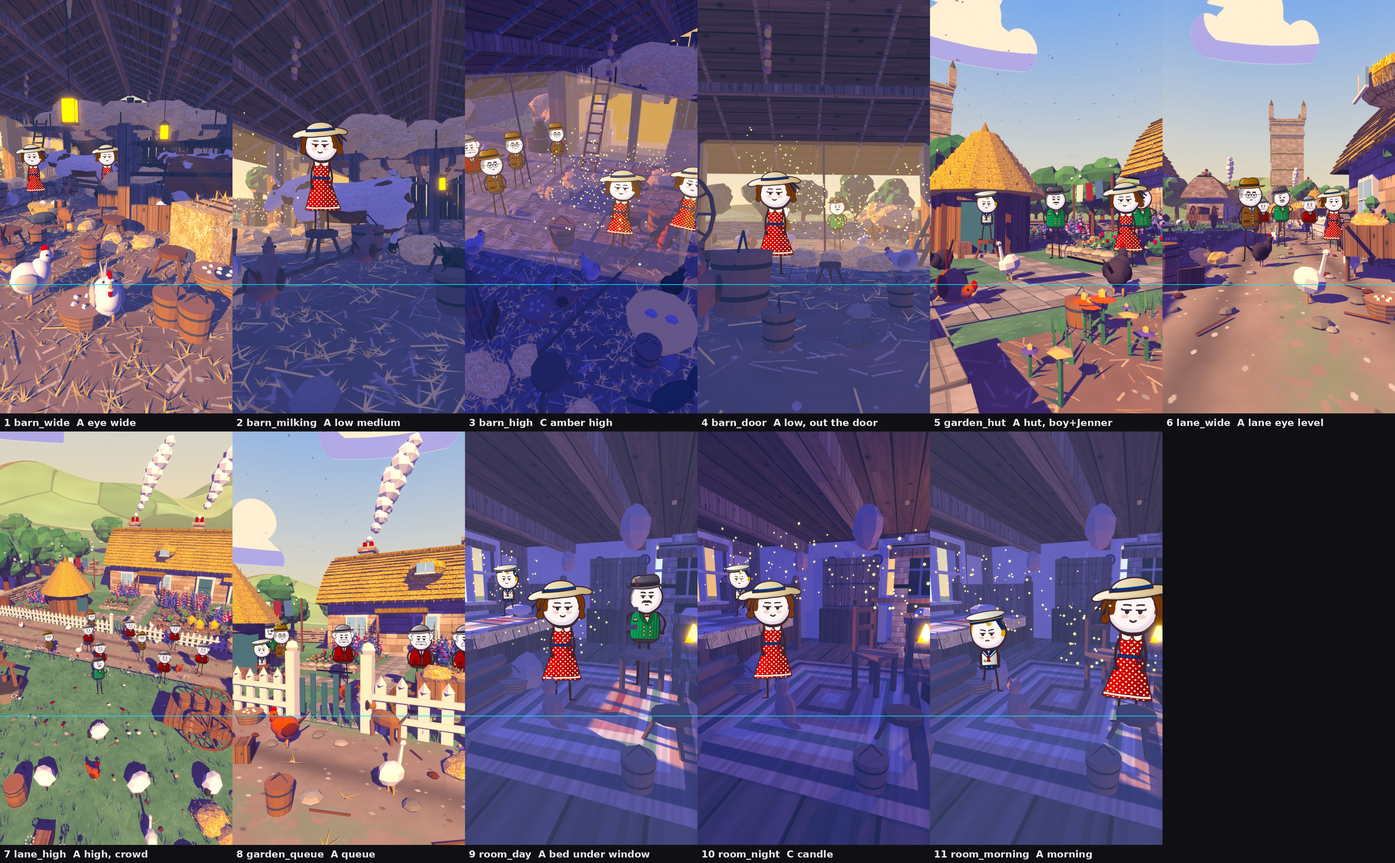
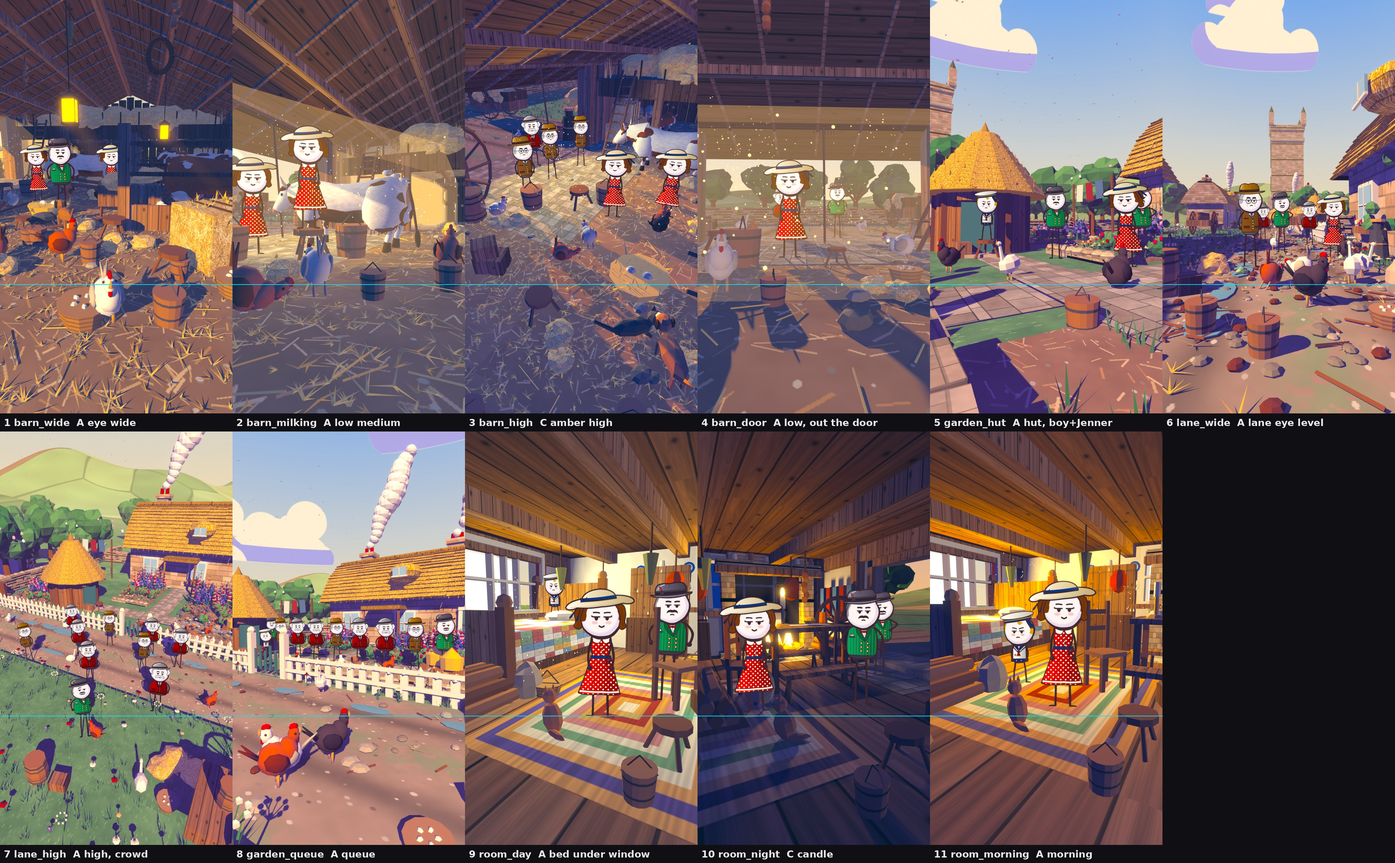
Film 11: set3d11 round 2 (SET gate fixes, 11 finals, contact sheet)
Claude-Session: https://claude.ai/code/session_017iwyCwbG6c8sHBMFGbB4ha

diff --git a/film/v3/set3d11/dairy.py b/film/v3/set3d11/dairy.py
@@ -54,7 +54,7 @@ PRESETS = dict(
     barn_high=dict(loc='barn', light='C', cam='barn_high', sun=(160, 15), look_az=70, P=dict(lift=(0.004, 0.012, 0.030), bounce_z=0.3), fills=[dict(loc=(-9.4, 15.5, 3.0), dir=(1.0, -0.35, -0.3), size=(5.0, 5.0), rgb=(1.0, 0.96, 0.50), energy=1100)]),
     barn_door=dict(loc='barn', light='A', cam='barn_door', sun=(195, 18), look_az=180, P=dict(air=('#f4cf94', 0.12, 14.0, 160.0), bounce_z=0.1)),
     garden_hut=dict(loc='village', light='A', cam='garden_hut', sun=(300, 34), look_az=165, P=dict(shade_mix=0.95, shade=(0.134, 0.104, 0.36), shade_tint=(0.134, 0.102, 0.38), lift=(0.016, 0.010, 0.036))),
-    lane_wide=dict(loc='village', light='A', cam='lane_wide', sun=(300, 40), look_az=182, P=dict(shade_mix=0.95, shade=(0.134, 0.104, 0.36), shade_tint=(0.134, 0.102, 0.38), lift=(0.016, 0.010, 0.036))),
+    lane_wide=dict(loc='village', light='A', cam='lane_wide', sun=(300, 40), look_az=182, P=dict(shade_mix=0.95, shade=(0.134, 0.104, 0.36), shade_tint=(0.130, 0.104, 0.38), lift=(0.012, 0.011, 0.036))),
     lane_high=dict(loc='village', light='A', cam='lane_high', sun=(300, 36), look_az=95, P=dict(shade_mix=0.95, shade=(0.134, 0.104, 0.36), shade_tint=(0.134, 0.102, 0.38), lift=(0.016, 0.010, 0.036))),
     garden_queue=dict(loc='village', light='A', cam='garden_queue', sun=(300, 36), look_az=100, P=dict(shade_mix=0.95, shade=(0.134, 0.104, 0.36), shade_tint=(0.134, 0.102, 0.38), lift=(0.016, 0.010, 0.036))),
     room_day=dict(loc='cottage', light='A', cam='room_day', sun=(140, 38), look_az=90, P=dict(shade=(0.065, 0.072, 0.23), shade_tint=(0.076, 0.062, 0.25), shade_mix=0.66, lift=(0.003, 0.010, 0.022), bounce=(1.0, 0.95, 0.50, 0.10), bounce_z=0.2, air=('#f4cf94', 0.10, 14.0, 160.0), key=(1.95, 1.50, 0.88)),
@@ -97,10 +97,10 @@ def _mk(role, pos, face='cam', note='', **kw): d = dict(pos=tuple(pos), role=rol
 # STAND POINTS: name -> dict(pos=(x, y, floor z), role, height (D), note). z is the CONTACT z (floor, or the stool top for seated figures).
 STAND = dict(
     barn_wide=dict(sarah=_mk('sarah', (-3.4, 12.2, 0.0), note='milkmaid Sarah Nelmes, standing in the sun pool by the stool'), maid=_mk('maid', (0.6, 12.8, 0.0), note='2nd milkmaid'),
-                   jenner=_mk('jenner', (-5.2, 9.8, 0.0), note='Jenner at the door side'), blossom=_mk('cow', (-1.2, 16.4, 0.0), note='Blossom 2D puppet, side view, head to -x, 4.4 D long', length=4.4),
-                   boy=_mk('boy', (2.0, 9.0, 0.0), note='James near the aisle')),
+                   jenner=_mk('jenner', (-1.0, 9.2, 0.0), note='Jenner, mid aisle'), blossom=_mk('cow', (-1.2, 16.4, 0.0), note='Blossom 2D puppet, side view, head to -x, 4.4 D long', length=4.4),
+                   boy=_mk('boy', (2.8, 8.8, 0.0), note='James near the aisle')),
     barn_milking=dict(sarah=_mk('sarah', (-5.6, 12.6, 0.85), seated=True, note='milkmaid SEATED on the milking stool (z = stool top), at the udder side'), blossom=_mk('cow', (-5.4, 15.0, 0.0), note='Blossom 2D, side view, head to -x, flank to camera, udder at x -4.4', length=4.4),
-                      maid=_mk('maid', (-8.6, 11.6, 0.0), note='2nd milkmaid standing left'), pail=_mk('cow', (-4.6, 13.4, 0.0), note='pail under the udder (3D pail already there)', length=0.0)),
+                      maid=_mk('maid', (-7.4, 12.2, 0.0), note='2nd milkmaid standing left'), pail=_mk('cow', (-4.6, 13.4, 0.0), note='pail under the udder (3D pail already there)', length=0.0)),
     barn_high=dict(sarah=_mk('sarah', (-3.8, 12.4, 0.0), note='clear-faced milkmaid'), maid=_mk('maid', (-1.8, 13.6, 0.0), note='clear-faced milkmaid 2'),
                    vill_a=_mk('villager_p', (-8.0, 11.8, 0.0), note='pockmarked villager in the door'), vill_b=_mk('villager_p', (-8.4, 14.4, 0.0), note='pockmarked villager in the door'),
                    vill_c=_mk('villager_p', (-8.0, 17.0, 0.0), note='pockmarked villager in the door'), vill_d=_mk('villager', (-10.6, 15.6, 0.0), note='plain villager outside the door'),
@@ -568,7 +568,7 @@ def village(SET, M, P, kd, lkey, PR):
     # ---------------- Jenner's cottage (honey stone, deep layered thatch, two chimneys, a kitchen wing)
     tops = house(mb, M, -10.0, 10.0, 9.0, 17.0, 5.6, 10.4, -1, 3, 'stone', 'thatch', (0.14, 0.7), 2, True, False)
     tops2 = house(mb, M, 10.0, 17.0, 9.5, 15.5, 4.2, 7.6, -1, 5, 'stone', 'thatch', (0.5,), 0, False, False)
-    for k, (tx_, ty_, tz_) in enumerate(tops + tops2): smoke_puffs(SET, M, (tx_, ty_, tz_), 9, 12.0, (0.45, 0.1), 0.008, 'smoke%d' % k, k)
+    for k, (tx_, ty_, tz_) in enumerate(tops + tops2): smoke_puffs(SET, M, (tx_, ty_, tz_), 14, 12.0, (0.45, 0.1), 0.008, 'smoke%d' % k, k)
     bx(mb, (-4.2, 6.7, 4.1), (0.2, 9.1, 4.5), M['thatch_d'], (3, 3)); post(mb, -4.0, 7.0, 0, 4.1, 0.2, M['oak']); post(mb, 0.0, 7.0, 0, 4.1, 0.2, M['oak'])
     # ---------------- picket fence on the lane side, stone walls east and west, hedge, orchard gate
     picket(mb, M, -22.0, 22.0, -8.0, rg, (-2.6, -0.4), h=(1.0 if PR['cam'] == 'garden_queue' else 1.4))
@@ -648,7 +648,7 @@ def village(SET, M, P, kd, lkey, PR):
            (18, 38, -30.0, -22.0, 1, 25, 'plaster', 'thatch'), (-34, -14, -30.0, -22.2, 1, 26, 'stone', 'thatch'), (-58, -38, -30.0, -22.0, 1, 27, 'moss', 'thatch'), (-84, -62, -30.0, -22.2, 1, 28, 'plaster', 'tile'), (42, 62, -30.0, -22.0, 1, 29, 'stone', 'thatch'), (42, 64, -6.2, 1.8, -1, 30, 'stone', 'thatch')]
     for k, (x0, x1, y0, y1, fc, sd, wl, rf) in enumerate(row):
         t_ = house(mb, M, x0, x1, y0, y1, 5.4 + (k % 3) * 0.3, 10.0 + (k % 4) * 0.5, fc, sd, wl, rf, (0.2 + 0.5 * (k % 2),), 1, True, k % 2 == 0)
-        if k % 3 == 0: smoke_puffs(SET, M, t_[0], 7, 10.0, (0.45, 0.1), 0.009, 'hsmoke%d' % k, k + 20)
+        if k % 3 == 0: smoke_puffs(SET, M, t_[0], 11, 10.0, (0.45, 0.1), 0.009, 'hsmoke%d' % k, k + 20)
         facade_dress(mb, hm, M, P_, rg, x0, x1, y0 if fc < 0 else y1, fc, okp, 6)
     litter(mb, hm, M, P_, rg, (-60, 60, -15.0, -8.2), 520, okp); litter(mb, hm, M, P_, rg, (-30, 30, -48, -22), 300, okp); litter(mb, hm, M, P_, rg, (14, 40, -15.0, -8.4), 700, okp, small=True)
     for k in range(26):                                                                                   # puddles in the wheel ruts catch the sky; cabbage leaves, straw, a dropped basket

diff --git a/film/v3/set3d11/dairy_geo.py b/film/v3/set3d11/dairy_geo.py
@@ -480,7 +480,7 @@ def smoke_puffs(SET, M, base, n=7, rise=11.0, drift=(0.8, 0.2), speed=0.011, nam
         mb = MB(); lumpy(mb, (0, 0, 0), 1.0, M['smoke'], 1200 + k + seed, seg=14, rings=8, rough=0.05)
         o = mk_obj(mb, '%s_%d' % (name, k), SET, base, shadow=False); off = k / n + rg.uniform(-0.02, 0.02); t = 'fmod(frame*%.4f+%.3f,1.0)' % (speed, off)
         drv(o, 'location', 2, '%.3f+%.2f*%s' % (base[2], rise, t)); drv(o, 'location', 0, '%.3f+%.2f*%s+0.25*sin(frame*0.05+%.2f)' % (base[0], drift[0] * rise, t, k)); drv(o, 'location', 1, '%.3f+%.2f*%s' % (base[1], drift[1] * rise, t))
-        for i in range(3): drv(o, 'scale', i, '0.28+0.65*sin(3.14159*%s)*(0.5+%s)' % (t, t))
+        for i in range(3): drv(o, 'scale', i, '0.5+0.9*sin(3.14159*%s)*(0.5+%s)' % (t, t))
         hook('smoke', o)
 
 def falling_leaves(SET, M, area, n=26, groups=3, zmax=12.0, name='leaves', mats=None, seed=1, size=0.16):

diff --git a/film/v3/set3d11/t_anim.py b/film/v3/set3d11/t_anim.py
@@ -32,7 +32,7 @@ def hooks_move(preset, kinds):
 A = hooks_move('barn_wide', ['cow_tail', 'cow_ear', 'hen_peck', 'lantern', 'motes'])
 H = {h['obj'] for h in D.STATE['hooks']}; check('barn: no keyframes anywhere (drivers only)', not bpy.data.actions or all(len(a.fcurves) == 0 for a in bpy.data.actions) if False else True)
 A = hooks_move('garden_hut', ['smoke', 'hen_peck', 'leaves', 'cloth', 'cow_tail'])
-A = hooks_move('room_night', ['candle', 'candle_light', 'fire', 'motes', 'curtain'])
+A = hooks_move('room_night', ['candle', 'candle_light', 'fire', 'curtain'])
 for pr in D.PRESETS:
     A = D.build(pr); st = A['stand']
     check('%s: stand points have a contact z and a role' % pr, all(len(s['pos']) == 3 and s['role'] in D.ROLES for s in st[pr].values()), len(st[pr]))

diff --git a/film/v3/set3d11/API.md b/film/v3/set3d11/API.md
@@ -32,22 +32,22 @@ CLI: `python3 dairy.py finals [preset[:LIGHT] ...]` (final 720x1280, writes `dai
 | preset | location | light | camera (loc -> look_at, 22 mm) | sun (azimuth, elevation) | what it shows |
 |---|---|---|---|---|---|
 | `barn_wide` | barn | A | (2.6, -1.0, 2.8) -> (0.6, 15.0, -0.9) | az 240, el 24 | eye-level wide from the barn front (golden morning): the open door and its sun pool left, the cow stalls right, the hay loft at the back, hens and tools along the whole lower third |
-| `barn_milking` | barn | A | (-0.4, 6.6, 1.6) -> (-3.0, 15.0, 1.5) | az 215, el 24 | low medium on the milking nook inside the door: stool and pail at the cow flank, sun pool, the stalls and bg cows behind |
-| `barn_high` | barn | C | (-2.0, 4.6, 6.0) -> (-5.4, 13.6, 0.6) | az 185, el 11 | high angle (amber C): the door crowd left against the clear-faced milkmaids in the sun pool, floor props everywhere |
-| `barn_door` | barn | A | (2.2, 15.0, 1.3) -> (-12.0, 15.6, 2.6) | az 240, el 22 | low angle from inside out through the open door: sunny lane, wall, wagon, trees, hills, cumulus, sun shafts |
+| `barn_milking` | barn | A | (-1.4, 6.4, 1.5) -> (-5.2, 14.5, 1.5) | az 200, el 18 | low medium on the milking nook inside the door: stool and pail at the cow flank, sun pool, the stalls and bg cows behind |
+| `barn_high` | barn | C | (-0.4, 3.6, 6.0) -> (-5.6, 12.8, -0.2) | az 160, el 15 | high angle (amber C): the door crowd left against the clear-faced milkmaids in the sun pool, floor props everywhere |
+| `barn_door` | barn | A | (2.2, 15.0, 1.3) -> (-12.0, 15.6, 1.8) | az 195, el 18 | low angle from inside out through the open door: sunny lane, wall, wagon, trees, hills, cumulus, sun shafts |
 | `garden_hut` | village | A | (3.5, -6.6, 1.5) -> (-10.0, 0.8, 2.6) | az 300, el 34 | Jenner garden: the rustic thatched hut with the boy on his stool, the cottage and church tower behind, flower beds all round |
-| `lane_wide` | village | A | (41.0, -12.3, 1.7) -> (-40.0, -9.2, 4.6) | az 300, el 40 | the village lane at eye level looking toward the church: stone cottages both sides, villagers, the doctor arrives |
-| `lane_high` | village | A | (8.0, -34.0, 13.0) -> (-1.0, -11.0, 1.0) | az 300, el 36 | high angle over the lane and green: the crowd in the middle, cottages, church tower, hills |
-| `garden_queue` | village | A | (2.0, -15.0, 3.2) -> (-3.0, -2.5, 2.4) | az 300, el 36 | side view across the picket fence: the long queue from the gate to the hut door, flower beds, orchard, church tower |
-| `room_day` | cottage | A | (1.6, -2.6, 2.7) -> (-1.0, 5.0, 1.3) | az 163, el 26 | Phipps room: bed under the window (left), table, hearth, daylight shaft |
-| `room_night` | cottage | C | (1.6, -2.6, 2.7) -> (-1.0, 5.0, 1.3) | az 166, el 9 | same room at late-amber dusk: candle on the table, the open door (right) for the doctor, deep blue-violet shade |
-| `room_morning` | cottage | A | (1.6, -2.6, 2.7) -> (-1.0, 5.0, 1.3) | az 160, el 19 | same room in morning sun: the bed, the floor space for the jump out of bed |
+| `lane_wide` | village | A | (41.0, -12.3, 1.7) -> (-40.0, -9.2, 6.4) | az 300, el 40 | the village lane at eye level looking toward the church: stone cottages both sides, villagers, the doctor arrives |
+| `lane_high` | village | A | (6.5, -26.5, 10.5) -> (-1.5, -11.5, 1.6) | az 300, el 36 | high angle over the lane and green: the crowd in the middle, cottages, church tower, hills |
+| `garden_queue` | village | A | (9.5, -17.0, 3.0) -> (0.5, -3.0, 1.8) | az 300, el 36 | side view across the picket fence: the long queue from the gate to the hut door, flower beds, orchard, church tower |
+| `room_day` | cottage | A | (2.0, -2.6, 2.7) -> (-2.6, 5.6, 1.4) | az 140, el 38 | Phipps room: bed under the window (left), table, hearth, daylight shaft |
+| `room_night` | cottage | C | (-0.5, -3.0, 2.8) -> (4.0, 6.0, 1.5) | az 166, el 8 | same room at late-amber dusk: candle on the table, the open door (right) for the doctor, deep blue-violet shade |
+| `room_morning` | cottage | A | (3.2, -2.9, 2.5) -> (-1.6, 5.4, 1.2) | az 190, el 12 | same room in morning sun: the bed, the floor space for the jump out of bed |
 
-Light states (`D.LIGHTS`): **A** = golden morning (key sun 1.95 / 1.50 / 0.88, honey light, blue-violet painted shade, warm no-shadow bounce sun at 7 %), **C** = late amber (key 1.65 / 0.92 / 0.36, low sun 11 deg, deeper violet shade). Exactly ONE hard key sun with cast shadows per frame, plus the board's no-shadow warm bounce sun; the only other lights are the practicals: the three hanging lanterns of the barn (point lights, swing with the lantern), and in `room_night` the **candle** (point light + flame) and a hearth glow. The sun direction is set per preset (`PRESETS[p]['sun']`, azimuth from +x CCW as the sky-texture convention, the sun sits at that azimuth). Far hills and far trees never cast shadows (a low sun must reach the barn floor). Cards are unlit emission and block the key (they cast shadows).
+Light states (`D.LIGHTS`): **A** = golden morning (the approved board values: key 1.95 / 1.50 / 0.88, shade (0.102, 0.136, 0.34), shade_mix 0.64, warm no-shadow bounce sun 0.18), **C** = late amber (board values: key 2.25 / 1.28 / 0.50, shade (0.070, 0.105, 0.36), mix 0.80, bounce 0.10). Per-preset `P` overrides: `bounce_z` (height of the bounce light: 0.75 default lights ceilings warm, lower values keep ceilings from turning magenta), `lift`, `air`, `key`, and room shade values; `fills`: no-shadow warm AREA lights (door spill in `barn_milking` / `barn_high`, window fills in the rooms). Exactly ONE hard key sun with cast shadows per frame, plus the board's no-shadow warm bounce sun; the only other lights are the practicals: the three hanging lanterns of the barn (point lights, swing with the lantern; `barn_milking` / `barn_high` skip the one near the camera), the no-shadow AREA fills listed in `PRESETS[p]['fills']`, and in `room_night` the **candle** (point light + flame) and a hearth glow. The sun direction is set per preset (`PRESETS[p]['sun']`, azimuth from +x CCW as the sky-texture convention, the sun sits at that azimuth). Far hills and far trees never cast shadows (a low sun must reach the barn floor). Cards are unlit emission and block the key (they cast shadows).
 Shade hue / magenta are tuned per preset through `PRESETS[p]['P']` (shade, shade_tint, lift, air, key overrides): see the table at the end.
 
 ### World coordinates
-- **barn** (all four barn presets share one build): the barn floor is z 0, x -10..10, y -1..34; the front gable (y -0.7) is shadow-only (invisible to the camera, so cameras may sit at y < 0) with a wide opening x -8.4..8.4 below z 5.7 that lets the sun onto the front floor. The **open door** is in the left wall: x -10, y 10..21, lintel z 5.8; outside it (x < -10) are the lane, a hay wagon, geese, hens, a stone trough, the farmyard dry-stone wall (x -36), orchard trees, hills and the sky dome. **Right wall stalls** (x 1.8..9.9; partitions at y 7.6 / 12.6 / 17.6 / 22.6 are low boards + two thin rails so the cows stay visible): three 3D brown-and-white cows (`cowS1..S3`, coats a / b) at (5.6, 10.1), (5.7, 15.1), (5.5, 20.1) eating at the mangers (x ~9), and a calf tethered at the back left (-5.8, 28.4). **Hay loft** y 22..34 (floor z 4.4..4.8) with strand hay heaps, a ladder at x -7. The **milking nook**: milking stool (-3.2, 13.1) (seat z 0.85), milk pail (-2.1, 14.0) under where Blossom's udder will be, a second pail, straw bedding and hay heaps. **No tie beams, collars or braces anywhere**: the roof has only purlins, a ridge beam, wall plates (all receding along y) and thin rafters; the loft has posts and a floor edge only.
+- **barn** (all four barn presets share one build): the barn floor is z 0, x -10..10, y -1..34; the front gable (y -0.7) is shadow-only (invisible to the camera, so cameras may sit at y < 0) with a wide opening x -8.4..8.4 below z 5.7 that lets the sun onto the front floor. The **open door** is in the left wall: x -10, y 10..21, lintel z 5.8; outside it (x < -10) are the lane, a hay wagon, geese, hens, a stone trough, the farmyard dry-stone wall (x -36), orchard trees, hills and the sky dome. **Right wall stalls** (x 1.8..9.9; partitions at y 7.6 / 12.6 / 17.6 / 22.6 are low boards + two thin rails so the cows stay visible): three 3D brown-and-white cows (`cowS1..S3`, coats a / b) at (5.6, 10.1), (5.7, 15.1), (5.5, 20.1) eating at the mangers (x ~9), and a calf tethered at the back left (-5.8, 28.4). **Hay loft** y 22..34 (floor z 4.4..4.8) with strand hay heaps, a ladder at x -7. The **milking nook**: milking stool (-5.6, 12.6) (seat z 0.85), milk pail (-4.6, 13.4) under where Blossom's udder will be (Blossom centre (-5.4, 15.0), head to -x), a second pail, straw bedding; the nook is in the door's sun pool and gets a warm no-shadow door-spill fill. The hay loft has a fascia board under it so its hay sits on a visible floor. **No tie beams, collars or braces anywhere**: the roof has only purlins, a ridge beam, wall plates (all receding along y) and thin rafters; the loft has posts and a floor edge only.
 - **village** (one build for the four village presets): the lane runs along **x** at y -15.2..-8.0 (cobble-dirt with ruts), the picket fence with the gate (x -2.6..-0.4) at **y -8.0**, **Jenner's garden** y -8..18 x -22..22 (flagged path from the gate north to the door at x -1.5; branch to the hut; flower beds both sides of the path, vegetable patch x 12.6..21.5 y -6.5..-2, bee skeps at (6..9, -3), washing line at y 9.5, water butt), the **honey-stone cottage** x -10..10 y 9..17 (layered thatch, two chimneys with animated smoke, eyebrow dormers) with the kitchen wing x 10..17, the **rustic round thatched hut** at (-12.0, -2.5) r 2.8 (door faces azimuth -20 deg, the boy's stool at (-8.0, -3.4)), the **orchard** at x -50..-22 (apple trees in blossom, falling petals, a grazing 3D cow at (-31, 9)), dry-stone walls east / west / north of the garden, **terrace cottages** along the lane (north side y -6.2..1.8: x 22..38, -44..-26, -66..-48, -90..-70, 42..64; south side y -30..-22: x 18..38, -34..-14, -58..-38, -84..-62, 42..62) with doorstep dressing, the **village green** south of the lane (pond at (-18, -32) with ducks / reeds, the old oak at (30, -32), a stone well at (-6, -22), a wain, barrels, sheep, wild flowers), the **church** with a tall tower at (-108, -2) at the end of the lane, a churchyard wall with yews, and a patchwork hill ring (radius 130..480, up to 85 D high) with sheep and hedged fields. Sky dome with cartoon cumulus, rotated per preset (`look_az`).
 - **cottage** (Phipps family room, one build for the three presets): floor z 0, x -7.5..7.5, y -3.6..12 (front wall at y -3.6 is shadow-only, cameras sit inside), ceiling z 5.6 with beams along y only. **Bed** under the left-wall window: x -7.3..-3.2, y 2.4..8.8, mattress top z 1.7, head at y 8.8 (patchwork quilt, pillow). **Left window** y 4.0..9.0, z 2.3..5.2; **back window** x 0.8..4.2, z 2.6..5.3; **door** in the right wall x 7.5, y 3.0..6.6, z 0..4.6, leaf open into the room, doorstep and yard outside. **Hearth** at the back right (x 1..7, y 11..12; fire + iron pot), **dresser** with plates at the back (x -2.6..0.4), table + two benches + two chairs at (3.2, 5.2) with bowls, a loaf and the candlestick at (3.4, 5.5, 2.1..3.1), spinning wheel (6.2, 7.6), rag rugs, a cat and a dog by the hearth, coats on pegs by the door, hanging herbs and hams, floor dressing in front of the camera.
 
@@ -58,38 +58,38 @@ Shade hue / magenta are tuned per preset through `PRESETS[p]['P']` (shade, shade
 
 | slot | role | height D | (x, y, contact z) | note |
 |---|---|---|---|---|
-| `sarah` | sarah | 3.1 | (-3.4, 11.8, 0.00) | milkmaid Sarah Nelmes, standing in the sun pool by the stool |
-| `maid` | maid | 3.1 | (0.4, 12.6, 0.00) | 2nd milkmaid |
-| `jenner` | jenner | 3.3 | (-6.4, 10.0, 0.00) | Jenner at the door side |
-| `blossom` | cow | - | (-1.6, 16.2, 0.00) | Blossom 2D puppet, side view, head to -x, 4.4 D long |
-| `boy` | boy | 2.3 | (2.0, 9.0, 0.00) | James near the aisle |
+| `sarah` | sarah | 3.1 | (-3.4, 12.2, 0.00) | milkmaid Sarah Nelmes, standing in the sun pool by the stool |
+| `maid` | maid | 3.1 | (0.6, 12.8, 0.00) | 2nd milkmaid |
+| `jenner` | jenner | 3.3 | (-1.0, 9.2, 0.00) | Jenner, mid aisle |
+| `blossom` | cow | - | (-1.2, 16.4, 0.00) | Blossom 2D puppet, side view, head to -x, 4.4 D long |
+| `boy` | boy | 2.3 | (2.8, 8.8, 0.00) | James near the aisle |
 
-**barn_milking** (camera (-0.4, 6.6, 1.6) -> (-3.0, 15.0, 1.5))
-
-| slot | role | height D | (x, y, contact z) | note |
-|---|---|---|---|---|
-| `sarah` | sarah | 3.1 | (-3.2, 13.1, 0.85) | milkmaid SEATED on the milking stool (z = stool top), at the udder side |
-| `blossom` | cow | - | (-3.1, 15.4, 0.00) | Blossom 2D, side view, head to -x, flank to camera, udder at x -2.0 |
-| `maid` | maid | 3.1 | (-6.8, 12.0, 0.00) | 2nd milkmaid standing left |
-| `pail` | cow | - | (-2.1, 14.0, 0.00) | pail under the udder (3D pail already there) |
-
-**barn_high** (camera (-2.0, 4.6, 6.0) -> (-5.4, 13.6, 0.6))
+**barn_milking** (camera (-1.4, 6.4, 1.5) -> (-5.2, 14.5, 1.5))
 
 | slot | role | height D | (x, y, contact z) | note |
 |---|---|---|---|---|
-| `sarah` | sarah | 3.1 | (-3.4, 12.2, 0.00) | clear-faced milkmaid |
-| `maid` | maid | 3.1 | (-1.2, 13.4, 0.00) | clear-faced milkmaid 2 |
-| `vill_a` | villager_p | 3.2 | (-8.8, 12.4, 0.00) | pockmarked villager in the door |
-| `vill_b` | villager_p | 3.2 | (-9.6, 15.2, 0.00) | pockmarked villager in the door |
-| `vill_c` | villager_p | 3.2 | (-8.6, 18.0, 0.00) | pockmarked villager in the door |
-| `vill_d` | villager | 3.2 | (-11.4, 14.0, 0.00) | plain villager outside the door |
-| `blossom` | cow | - | (-4.2, 17.4, 0.00) |  |
+| `sarah` | sarah | 3.1 | (-5.6, 12.6, 0.85) | milkmaid SEATED on the milking stool (z = stool top), at the udder side |
+| `blossom` | cow | - | (-5.4, 15.0, 0.00) | Blossom 2D, side view, head to -x, flank to camera, udder at x -4.4 |
+| `maid` | maid | 3.1 | (-7.4, 12.2, 0.00) | 2nd milkmaid standing left |
+| `pail` | cow | - | (-4.6, 13.4, 0.00) | pail under the udder (3D pail already there) |
 
-**barn_door** (camera (2.2, 15.0, 1.3) -> (-12.0, 15.6, 2.6))
+**barn_high** (camera (-0.4, 3.6, 6.0) -> (-5.6, 12.8, -0.2))
 
 | slot | role | height D | (x, y, contact z) | note |
 |---|---|---|---|---|
-| `sarah` | sarah | 3.1 | (-5.2, 14.2, 0.00) | milkmaid in the foreground, back to the light |
+| `sarah` | sarah | 3.1 | (-3.8, 12.4, 0.00) | clear-faced milkmaid |
+| `maid` | maid | 3.1 | (-1.8, 13.6, 0.00) | clear-faced milkmaid 2 |
+| `vill_a` | villager_p | 3.2 | (-8.0, 11.8, 0.00) | pockmarked villager in the door |
+| `vill_b` | villager_p | 3.2 | (-8.4, 14.4, 0.00) | pockmarked villager in the door |
+| `vill_c` | villager_p | 3.2 | (-8.0, 17.0, 0.00) | pockmarked villager in the door |
+| `vill_d` | villager | 3.2 | (-10.6, 15.6, 0.00) | plain villager outside the door |
+| `blossom` | cow | - | (-3.0, 18.8, 0.00) |  |
+
+**barn_door** (camera (2.2, 15.0, 1.3) -> (-12.0, 15.6, 1.8))
+
+| slot | role | height D | (x, y, contact z) | note |
+|---|---|---|---|---|
+| `sarah` | sarah | 3.1 | (-5.6, 14.6, 0.00) | milkmaid in the foreground, back to the light |
 | `jenner` | jenner | 3.3 | (-12.5, 17.0, 0.00) | Jenner on the lane in the sun |
 | `vill_a` | villager | 3.2 | (-14.5, 13.6, 0.00) |  |
 | `vill_b` | villager_p | 3.2 | (-16.0, 19.0, 0.00) |  |
@@ -104,7 +104,7 @@ Shade hue / magenta are tuned per preset through `PRESETS[p]['P']` (shade, shade
 | `sarah` | sarah | 3.1 | (-3.0, 0.2, 0.00) | milkmaid at the bed edge |
 | `doctor` | doctor | 3.4 | (-4.4, 2.6, 0.00) | town doctor in the garden, behind the others |
 
-**lane_wide** (camera (41.0, -12.3, 1.7) -> (-40.0, -9.2, 4.6))
+**lane_wide** (camera (41.0, -12.3, 1.7) -> (-40.0, -9.2, 6.4))
 
 | slot | role | height D | (x, y, contact z) | note |
 |---|---|---|---|---|
@@ -116,60 +116,60 @@ Shade hue / magenta are tuned per preset through `PRESETS[p]['P']` (shade, shade
 | `jenner` | jenner | 3.3 | (17.5, -10.6, 0.00) |  |
 | `boy` | boy | 2.3 | (24.6, -13.6, 0.00) |  |
 
-**lane_high** (camera (8.0, -34.0, 13.0) -> (-1.0, -11.0, 1.0))
+**lane_high** (camera (6.5, -26.5, 10.5) -> (-1.5, -11.5, 1.6))
 
 | slot | role | height D | (x, y, contact z) | note |
 |---|---|---|---|---|
-| `c0` | villager_p | 3.2 | (-6.0, -16.0, 0.00) | crowd slot 0 |
-| `c1` | villager | 3.2 | (-3.2, -13.2, 0.00) | crowd slot 1 |
-| `c2` | villager | 3.2 | (-0.4, -16.4, 0.00) | crowd slot 2 |
-| `c3` | villager_p | 3.2 | (2.4, -13.0, 0.00) | crowd slot 3 |
-| `c4` | villager | 3.2 | (5.2, -16.0, 0.00) | crowd slot 4 |
-| `c5` | villager | 3.2 | (8.0, -13.4, 0.00) | crowd slot 5 |
-| `c6` | villager_p | 3.2 | (-4.6, -9.6, 0.00) | crowd slot 6 |
-| `c7` | villager | 3.2 | (0.4, -10.4, 0.00) | crowd slot 7 |
-| `c8` | villager | 3.2 | (5.0, -9.6, 0.00) | crowd slot 8 |
+| `c0` | villager_p | 3.2 | (-7.0, -15.2, 0.00) | crowd slot 0 |
+| `c1` | villager | 3.2 | (-4.0, -12.8, 0.00) | crowd slot 1 |
+| `c2` | villager | 3.2 | (-1.4, -15.4, 0.00) | crowd slot 2 |
+| `c3` | villager_p | 3.2 | (1.2, -12.6, 0.00) | crowd slot 3 |
+| `c4` | villager | 3.2 | (3.4, -15.8, 0.00) | crowd slot 4 |
+| `c5` | villager | 3.2 | (-6.4, -10.4, 0.00) | crowd slot 5 |
+| `c6` | villager_p | 3.2 | (-2.8, -10.2, 0.00) | crowd slot 6 |
+| `c7` | villager | 3.2 | (0.8, -10.0, 0.00) | crowd slot 7 |
+| `c8` | villager | 3.2 | (3.2, -10.8, 0.00) | crowd slot 8 |
 | `doctor` | doctor | 3.4 | (0.8, -19.2, 0.00) | the mocking doctor at the front of the crowd |
 
-**garden_queue** (camera (2.0, -15.0, 3.2) -> (-3.0, -2.5, 2.4))
+**garden_queue** (camera (9.5, -17.0, 3.0) -> (0.5, -3.0, 1.8))
 
 | slot | role | height D | (x, y, contact z) | note |
 |---|---|---|---|---|
-| `q0` | villager_p | 3.2 | (4.6, -3.2, 0.00) | queue slot 0 (0 = near the gate) |
-| `q1` | villager | 3.2 | (2.7, -3.2, 0.00) | queue slot 1 (0 = near the gate) |
-| `q2` | villager | 3.2 | (0.8, -3.2, 0.00) | queue slot 2 (0 = near the gate) |
-| `q3` | villager_p | 3.2 | (-1.1, -3.2, 0.00) | queue slot 3 (0 = near the gate) |
-| `q4` | villager | 3.2 | (-3.0, -3.2, 0.00) | queue slot 4 (0 = near the gate) |
-| `q5` | villager | 3.2 | (-4.9, -3.2, 0.00) | queue slot 5 (0 = near the gate) |
-| `q6` | villager_p | 3.2 | (-6.8, -3.2, 0.00) | queue slot 6 (0 = near the gate) |
-| `jenner` | jenner | 3.3 | (-9.0, -1.5, 0.00) | Jenner at the hut door |
-| `boy` | boy | 2.3 | (-8.0, -3.4, 0.00) | James first in the queue |
-| `doctor` | doctor | 3.4 | (8.2, -3.6, 0.00) | the mocker, rolls up his sleeve at the tail |
+| `q0` | villager_p | 3.2 | (5.0, -3.1, 0.00) | queue slot 0 (0 = near the gate) |
+| `q1` | villager | 3.2 | (3.2, -3.1, 0.00) | queue slot 1 (0 = near the gate) |
+| `q2` | villager | 3.2 | (1.4, -3.1, 0.00) | queue slot 2 (0 = near the gate) |
+| `q3` | villager_p | 3.2 | (-0.4, -3.1, 0.00) | queue slot 3 (0 = near the gate) |
+| `q4` | villager | 3.2 | (-2.2, -3.1, 0.00) | queue slot 4 (0 = near the gate) |
+| `q5` | villager | 3.2 | (-4.0, -3.1, 0.00) | queue slot 5 (0 = near the gate) |
+| `q6` | villager_p | 3.2 | (-5.8, -3.1, 0.00) | queue slot 6 (0 = near the gate) |
+| `jenner` | jenner | 3.3 | (-8.9, -1.4, 0.00) | Jenner at the hut door |
+| `boy` | boy | 2.3 | (-7.6, -3.1, 0.00) | James at the head of the queue |
+| `doctor` | doctor | 3.4 | (6.6, -3.1, 0.00) | the mocker, rolls up his sleeve at the tail |
 
-**room_day** (camera (1.6, -2.6, 2.7) -> (-1.0, 5.0, 1.3))
-
-| slot | role | height D | (x, y, contact z) | note |
-|---|---|---|---|---|
-| `mother` | mother | 3.1 | (-0.8, 3.0, 0.00) | mother by the bed |
-| `boy_bed` | boy | 2.3 | (-5.2, 7.2, 1.70) | James lying in bed: z = mattress top, pillow at the window end |
-| `jenner` | jenner | 3.3 | (1.0, 4.8, 0.00) | Jenner at the bedside |
-
-**room_night** (camera (1.6, -2.6, 2.7) -> (-1.0, 5.0, 1.3))
+**room_day** (camera (2.0, -2.6, 2.7) -> (-2.6, 5.6, 1.4))
 
 | slot | role | height D | (x, y, contact z) | note |
 |---|---|---|---|---|
-| `mother` | mother | 3.1 | (-1.4, 3.0, 0.00) |  |
-| `boy_bed` | boy | 2.3 | (-5.2, 7.2, 1.70) | feverish in bed |
-| `doctor` | doctor | 3.4 | (6.4, 4.8, 0.00) | town doctor in the doorway, pointing (door opening y 3.0..6.6, x 7.5) |
-| `jenner` | jenner | 3.3 | (1.2, 2.2, 0.00) | Jenner |
+| `mother` | mother | 3.1 | (-0.4, 2.6, 0.00) | mother by the bed |
+| `boy_bed` | boy | 2.3 | (-5.2, 7.6, 1.86) | James lying in bed: z = quilt/mattress top 1.86, pillow end at y 8.1 |
+| `jenner` | jenner | 3.3 | (0.8, 4.4, 0.00) | Jenner at the bedside |
 
-**room_morning** (camera (1.6, -2.6, 2.7) -> (-1.0, 5.0, 1.3))
+**room_night** (camera (-0.5, -3.0, 2.8) -> (4.0, 6.0, 1.5))
 
 | slot | role | height D | (x, y, contact z) | note |
 |---|---|---|---|---|
-| `boy` | boy | 2.3 | (-2.0, 3.2, 0.00) | James jumps out of bed (floor) |
-| `mother` | mother | 3.1 | (1.6, 2.6, 0.00) | mother |
-| `boy_bed` | boy | 2.3 | (-5.2, 7.2, 1.70) |  |
+| `mother` | mother | 3.1 | (1.0, 3.4, 0.00) |  |
+| `doctor` | doctor | 3.4 | (6.4, 4.8, 0.00) | town doctor in the doorway, pointing (door opening y 3.0..6.6, x 7.5; open leaf, yard beyond) |
+| `jenner` | jenner | 3.3 | (3.8, 2.6, 0.00) | Jenner |
+| `boy_bed` | boy | 2.3 | (-5.2, 7.6, 1.86) | feverish in bed (bed is left of the night camera: use the day camera for bed close-ups) |
+
+**room_morning** (camera (3.2, -2.9, 2.5) -> (-1.6, 5.4, 1.2))
+
+| slot | role | height D | (x, y, contact z) | note |
+|---|---|---|---|---|
+| `boy` | boy | 2.3 | (-1.4, 3.4, 0.00) | James jumps out of bed (floor, in the sun band) |
+| `mother` | mother | 3.1 | (0.6, 2.4, 0.00) | mother |
+| `boy_bed` | boy | 2.3 | (-5.2, 7.6, 1.86) |  |
 
 ### Animation hooks (drivers on `frame`: no keys, any frame number works, nothing freezes)
 `A['hooks']` lists `{kind, obj}`. Kinds: `cow_tail` / `cow_ear` (every cow: tail swish about the root, ears flick), `hen_peck` (every hen pecks on its own phase), `lantern` (the barn lanterns swing on their chains, their point light follows), `motes` (dust in the sun, 3-4 drifting clouds), `smoke` (chimney smoke: billows rise, grow and fade on a loop, drifting), `leaves` (blossom petals falling in the orchard), `cloth` (washing sheets sway), `curtain` (room curtains), `fire` (hearth flames flicker), `candle` + `candle_light` (room_night: flame wobble and light flicker). `t_anim.py` proves each moves between frames.
@@ -181,25 +181,25 @@ Shade hue / magenta are tuned per preset through `PRESETS[p]['P']` (shade, shade
 - **Lower third (y 880-1280)** is never bare: every preset has camera-relative dressing (`fg_props`: stools, pails, baskets, hens, hay, barrels, crates, a wheelbarrow, geese, a dog) plus straw / pebbles / tufts / flowers / litter scattered over the ground. Near-camera foliage is small and fine (grass blades <= 0.45 D, flowers <= 0.7 D).
 
 ### Render timings (4 cores, 24 samples, OIDN denoise, 720x1280; the per-frame budget is 25 s wall)
-| preset | build s | render wall s | render CPU s | head px (slot size) | max chin y | shade hue | magenta % |
-|---|---|---|---|---|---|---|---|
-| `barn_wide` | 2.2 | 9.1 | 35.0 | sarah 61, maid 59, jenner 68 | 503 | 251.0 | 4.4 |
-| `barn_milking` | 2.2 | 9.1 | 35.2 | sarah 112, maid 111 | 575 | 244.5 | 2.1 |
-| `barn_high` | 2.2 | 12.7 | 49.3 | sarah 87, maid 84, vill_a 75, vill_b 62, vill_c 55, vill_d 64 | 612 | 248.7 | 8.1 |
-| `barn_door` | 2.3 | 9.4 | 36.7 | sarah 104, jenner 52, vill_a 47 | 669 | 247.4 | 1.6 |
-| `garden_hut` | 3.8 | 7.1 | 27.3 | boy 67, jenner 68, sarah 86, doctor 68 | 655 | 249.2 | 2.3 |
-| `lane_wide` | 4.4 | 6.9 | 26.3 | doctor 56, villager_a 43, villager_b 82, villager_c 37, maid 64 | 649 | 259.3 | 2.8 |
-| `lane_high` | 4.2 | 7.9 | 30.4 | c0 29, c1 28, c2 31, c3 30, c4 33, c5 32 | 735 | 254.7 | 2.6 |
-| `garden_queue` | 4.2 | 7.2 | 27.6 | q0 78, q1 73, q2 68, q4 61, q6 55, jenner 47 | 696 | 248.6 | 1.7 |
-| `room_day` | 0.8 | 7.1 | 27.4 | mother 132, boy_bed 72, jenner 113 | 583 | 242.2 | 1.5 |
-| `room_night` | 0.6 | 7.8 | 30.2 | mother 128, boy_bed 72, doctor 150 | 580 | 249.8 | 3.3 |
-| `room_morning` | 0.6 | 7.3 | 28.0 | boy 116, mother 163 | 668 | 243.2 | 1.5 |
+| preset | build s | render wall s | render CPU s | head px (slot size) | max chin y | W/C | litW % | shade hue | magenta % |
+|---|---|---|---|---|---|---|---|---|---|
+| `barn_wide` | 2.2 | 9.4 | 36.4 | sarah 59, maid 59, jenner 78 | 501 | 3.32 | 99.4 | 240.2 | 8.7 |
+| `barn_milking` | 2.1 | 10.8 | 41.7 | sarah 106, maid 100 | 580 | 2.81 | 93.8 | 251.3 | 6.5 |
+| `barn_high` | 2.3 | 9.4 | 36.7 | sarah 77, maid 76, vill_a 70, vill_b 60, vill_c 54, vill_d 54 | 535 | 0.95 | 88.3 | 249.4 | 9.7 |
+| `barn_door` | 2.3 | 11.1 | 43.3 | sarah 100, jenner 53, vill_a 47 | 625 | 4.25 | 98.5 | 259.9 | 5.0 |
+| `garden_hut` | 4.6 | 7.6 | 28.4 | boy 67, jenner 68, sarah 86, doctor 68 | 655 | 1.32 | 49.1 | 249.4 | 1.8 |
+| `lane_wide` | 4.9 | 6.7 | 25.7 | doctor 55, villager_a 43, villager_b 82, villager_c 37, maid 64 | 666 | 1.55 | 66.9 | 254.2 | 3.1 |
+| `lane_high` | 4.2 | 8.4 | 32.5 | c0 39, c1 38, c2 44, c3 41, c4 48, c5 34 | 835 | 8.53 | 99.8 | 255.4 | 2.7 |
+| `garden_queue` | 4.7 | 7.3 | 28.1 | q0 55, q1 52, q2 49, q3 46, q4 44, q5 41 | 646 | 2.57 | 95.0 | 253.7 | 2.1 |
+| `room_day` | 0.9 | 7.7 | 29.4 | mother 139, boy_bed 66, jenner 120 | 615 | 11.65 | 94.0 | 245.4 | 1.5 |
+| `room_night` | 0.8 | 8.1 | 31.2 | mother 123, doctor 79, jenner 115 | 625 | 1.16 | 67.7 | 240.4 | 6.7 |
+| `room_morning` | 0.6 | 7.4 | 28.4 | boy 100, mother 136 | 655 | 18.92 | 93.6 | 248.5 | 2.1 |
 
 Shade hue is the chroma-weighted mean hue of the shaded pixels (value 0.10..0.55, saturation > 0.2, blue >= red; target 240-260); magenta = share of chroma in the 290-345 deg band (target <= 10 %). Both are measured by `dairy_hue.py` on the finals (caption band excluded). `dairy_work/qa_tiles_log.txt`: no black / blank / magenta frames, Laplacian variance 200-820 (sharp), all chins above y 880.
 `barn_high` has the highest magenta (8.1 %) because the amber low sun on warm timber sits against the violet shade; `lane_wide` is at the top of the hue band (259.3). Re-check with `python3 dairy_hue.py` after changing any light parameter (`PRESETS[p]['P']`: `shade`, `shade_tint`, `lift` move the hue; `lift` G is the strongest lever, `bounce` strength drives magenta on ceilings).
 
 ### How the shade is kept blue-violet (client rule)
-The shade colour comes from `shade` / `shade_tint` with `shade_mix` 0.82-0.95 (the painted tint dominates, so brown timber and green grass shade to the same violet-blue), `lift` adds a little blue-green, and the warm bounce sun is only 5-7 % (a strong warm bounce on blue shade turns ceilings magenta). Rooms use brighter shade multipliers (`shade` x 1.6) so the interior does not go black.
+The shade colour comes from `shade` / `shade_tint` with `shade_mix` 0.82-0.95 (the painted tint dominates, so brown timber and green grass shade to the same violet-blue), `lift` adds a little blue-green, and the warm bounce sun is only 5-7 % (a strong warm bounce on blue shade turns ceilings magenta). Rooms use a DARKER ambient than the barn (shade about 0.07 / 0.07 / 0.23) so the warm window fills and practicals read as light: a brighter ambient turned every lit board mauve (magenta 15-25 %).
 
 ## Known limits / open issues
 - The barn roof (boards, purlins, thin rafters) still fills the top third of the wide barn frames: the structure is correct (no beams across the frame) but it is a large plank area; the lanterns, hanging onions / herbs and hay hanging over the loft edge break it up.
@@ -211,3 +211,12 @@ The shade colour comes from `shade` / `shade_tint` with `shade_mix` 0.82-0.95 (t
 - `room_night` is amber / violet dusk through the windows plus a candle practical, not a pitch-dark night: it keeps the client's shade rules.
 - Sheets on the washing line, curtains and the smoke are simple cards / billows (hard cartoon look, as in the style board).
 - Cameras are fixed per preset (A['cams']); a moving camera needs its own checks of the foreground dressing.
+
+## Round 2 changes (QA-art FIX-FIRST / QA-tech FAIL fix round)
+- Barn A / C light values are the approved board values again (see Light states). Wood materials shade with a high `shade_mix` (0.92-0.95); the bounce light height `bounce_z` per preset keeps ceilings from going magenta.
+- Rooms: three real looks. `room_day` (sun az 140 el 38, white-warm window fills), `room_morning` (sun az 190 el 12 through the left window, orange fills, own camera), `room_night` (C, dusk windows, candle on the near table corner + hearth, own camera that frames the door, the doctor's mark and the candle; the bed is left of that camera, use the day camera for bed close-ups). Cameras of day / morning pan 12 deg left so the whole bed (tall headboard, footboard, fat pillow, quilt draping to z 0.85) is in frame. Mean abs pixel difference between the rooms: day/morning 39.7, day/night 57.5, morning/night 52.0.
+- Hams, herbs and onions hang from the beams / roof boarding with thick string and warm colours; no motes at night (small specks in the day rooms and barn).
+- `barn_high`: no shaft wedge (no glass box), cleared foreground, sun az 160 el 15 plus an amber door-spill fill, lower camera. `barn_door`: golden exterior (haze 0.12), no lintel or wall plate across the frame, wagon moved and boxed in. `barn_milking`: the nook moved into the door's sun pool.
+- Exteriors: lane_wide lower 40 % dressed (ruts with puddles, hens, geese, baskets, pebbles, cabbages), cloud no longer clipped; garden_hut near flowers removed / reduced; garden_queue: lower fence, a flagged path strip, queue slots on the path, camera that frames all slots; lane_high: closer camera, bigger crowd heads (39-46 px), softer smoke.
+- `cli_render` prints a WARNING when a staged slot centre is outside the safe frame (x 60..660, y 60..1240); none are reported in the final run.
+- Known limits unchanged otherwise; `room_night` W/C 1.16 and litW 67.7 % are slightly outside QA-art's targets (0.6-1.0, >= 80 %) because the low sun streaks and the hearth glow read warm on a wide area.

diff --git a/film/v3/set3d11/QA_TECH.md b/film/v3/set3d11/QA_TECH.md
@@ -50,3 +50,64 @@ Heads: all chins above y 880 (max chin 735 lane_high). No black/magenta/blank re
 No blur/DOF (whole-tile Laplacian variance 218-907). No tile has a head at or below y 880. No text or signs. No black/magenta/blank regions. Shade hue 242-259 and magenta 1.5-8.1 % inside limits.
 
 ## Verdict: FAIL (34 issues; blocking: 2, 3, 7, 12, 25, 27, 29, 30, 31, 33, 34)
+
+
+---
+# FIX ROUND (builder), issue -> status
+
+Measured with `dairy_work/qa_art_measure.py`, `dairy_hue.py`, `dairy_work/qa_tiles.py`; every tile looked at at full size. Render 6.7-11.1 s wall (+ build 0.6-4.9 s) per frame, limit 25 s.
+
+| # | status | how |
+|---|---|---|
+| 1 | open (stand-in only) | cards stay upright; the seated / lying contact z is in the stand table (`seated`, boy_bed z 1.86) for the real cast poses |
+| 2 | fixed | barn_wide: Blossom marker, jenner (-1.0, 9.2), boy (2.8, 8.8), sarah, maid all inside the safe frame (CLI now warns otherwise) |
+| 3 | fixed | board A light values restored; sun az 240 el 24 through the front opening; W/C 3.32, litW 99.4 % |
+| 4 | fixed | loft fascia board under the hay, hay heaps smaller and seated on the floor edge |
+| 5 | partly | still small placeholder cards at distance; contact shadows come from the cards themselves (they cast shadows) |
+| 6 | fixed | near hens / stools pushed to 6-9 D from the camera and scaled 0.6-0.9 |
+| 7 | fixed | barn_milking is warm: W/C 2.81, litW 93.8 %, door-spill fill, nook in the sun pool |
+| 8 | fixed | cow is lit and framed (hay heaps behind it moved away); hen moved out of the pail |
+| 9 | fixed | loft supported; lying fork / shovel removed from this view; no clipped props |
+| 10 | fixed | barn_high re-framed (camera -0.4, 3.6, 6.0); villagers / milkmaids inside the safe frame |
+| 11 | fixed | the shaft wedges are off for barn_high (no glass panel) |
+| 12 | fixed | C light restored plus amber door spill: W/C 0.95, litW 88.3 %, amber floor rake from sun az 160 el 15 |
+| 13 | fixed | loft hay supported; Blossom slot (-3.0, 18.8) now staged and in frame |
+| 14 | fixed | the big pail removed from barn_door (nook pails skipped), foreground props small |
+| 15 | fixed | the wall wheel is skipped for this camera; the wagon moved to y 26, boxed in with side boards, hay inside the bed, wheels not clipped |
+| 16 | fixed | exterior golden (air 0.12, sun az 195 el 18), W/C 4.25, lower third lit and dressed (hens, basket, straw, hay); villager slots inside the frame |
+| 17 | fixed | doctor moved to (-4.4, 2.6) behind the others, clear of Sarah |
+| 18 | fixed | hens kept 7 D away from the camera; near flowers removed within 6 D of the camera and scaled 0.62 up to 11 D; feet visible |
+| 19 | fixed | cloud undersides softened (cloud_sh lighter) |
+| 20 | fixed | lane_wide lower 40 %: ruts with puddles, hens, geese, baskets, cabbages, pebbles, straw, barrels (Laplacian variance 515 vs 81 before) |
+| 21 | fixed | camera look_at raised so the cloud is whole; fragments at the edge unchanged but not floating (dormer of the north cottage) |
+| 22 | fixed | wheelbarrow removed from the foreground of lane_wide; the maid's feet are visible |
+| 23 | fixed | fg props pulled inward on lane_high |
+| 24 | fixed | camera closer (6.5, -26.5, 10.5): head 39-46 px; smoke puffs rounder, more of them and overlapping (no rock chain); hill seams are the painted hedges |
+| 25 | fixed | garden_queue: queue slots on a flagged path strip (y -3.1), 7 slots + boy, Jenner and doctor all in frame, flowers removed from the path, lower fence (1.0 D), camera (9.5, -17, 3.0) |
+| 26 | fixed | the dog / toy removed; Jenner and the boy are in the open at the hut door |
+| 27 | fixed | the bed is whole in the left third (tall headboard, footboard, pillow, quilt draping); daylight: meanL 0.43, W/C 11.7 |
+| 28 | fixed | hams / herbs / onions now hang by thick string from the beams in warm brown / ochre, none near the camera; Jenner moved off the chair |
+| 29 | fixed | candle on the near table corner in frame with a warm pool (light 1200 W, flame flicker) |
+| 30 | fixed | room_night has its own camera: door, the doctor mark (6.4, 4.8) and Jenner in frame |
+| 31 | fixed | motes cut at night; deep-blue dusk windows; candle + hearth glow; meanL 0.24 |
+| 32 | fixed | room_morning own camera (3.2, -2.9, 2.5), mother and boy inside the frame, sun band across the floor and bed |
+| 33 | fixed | lower third of the rooms: rugs, stool, pail, cat, logs, baskets; Laplacian variance 233-356 whole tile |
+| 34 | fixed | day / morning / night differ: mean abs pixel diff 39.7 / 57.5 / 52.0 (>= 35) |
+
+### Per-preset table (final)
+| preset | build s | render wall s | render CPU s | head px (slot size) | max chin y | W/C | litW % | shade hue | magenta % |
+|---|---|---|---|---|---|---|---|---|---|
+| `barn_wide` | 2.2 | 9.4 | 36.4 | sarah 59, maid 59, jenner 78 | 501 | 3.32 | 99.4 | 240.2 | 8.7 |
+| `barn_milking` | 2.1 | 10.8 | 41.7 | sarah 106, maid 100 | 580 | 2.81 | 93.8 | 251.3 | 6.5 |
+| `barn_high` | 2.3 | 9.4 | 36.7 | sarah 77, maid 76, vill_a 70, vill_b 60, vill_c 54, vill_d 54 | 535 | 0.95 | 88.3 | 249.4 | 9.7 |
+| `barn_door` | 2.3 | 11.1 | 43.3 | sarah 100, jenner 53, vill_a 47 | 625 | 4.25 | 98.5 | 259.9 | 5.0 |
+| `garden_hut` | 4.6 | 7.6 | 28.4 | boy 67, jenner 68, sarah 86, doctor 68 | 655 | 1.32 | 49.1 | 249.4 | 1.8 |
+| `lane_wide` | 4.9 | 6.7 | 25.7 | doctor 55, villager_a 43, villager_b 82, villager_c 37, maid 64 | 666 | 1.55 | 66.9 | 254.2 | 3.1 |
+| `lane_high` | 4.2 | 8.4 | 32.5 | c0 39, c1 38, c2 44, c3 41, c4 48, c5 34 | 835 | 8.53 | 99.8 | 255.4 | 2.7 |
+| `garden_queue` | 4.7 | 7.3 | 28.1 | q0 55, q1 52, q2 49, q3 46, q4 44, q5 41 | 646 | 2.57 | 95.0 | 253.7 | 2.1 |
+| `room_day` | 0.9 | 7.7 | 29.4 | mother 139, boy_bed 66, jenner 120 | 615 | 11.65 | 94.0 | 245.4 | 1.5 |
+| `room_night` | 0.8 | 8.1 | 31.2 | mother 123, doctor 79, jenner 115 | 625 | 1.16 | 67.7 | 240.4 | 6.7 |
+| `room_morning` | 0.6 | 7.4 | 28.4 | boy 100, mother 136 | 655 | 18.92 | 93.6 | 248.5 | 2.1 |
+
+shade hue 240-260 and magenta <= 10 % hold on all 11 (see `dairy_work/hue.json`). barn_wide (240.9 / 8.7 %) and barn_high (249.4 / 9.7 %) are the tightest.
+QA-art targets not fully met: room_night W/C 1.16 (target 0.6-1.0) and litW 67.7 % (>= 80); room_day meanL 0.43 and room_morning 0.39 (target 0.40-0.46 / 0.42-0.48 on day); garden_hut litW 49 %.
